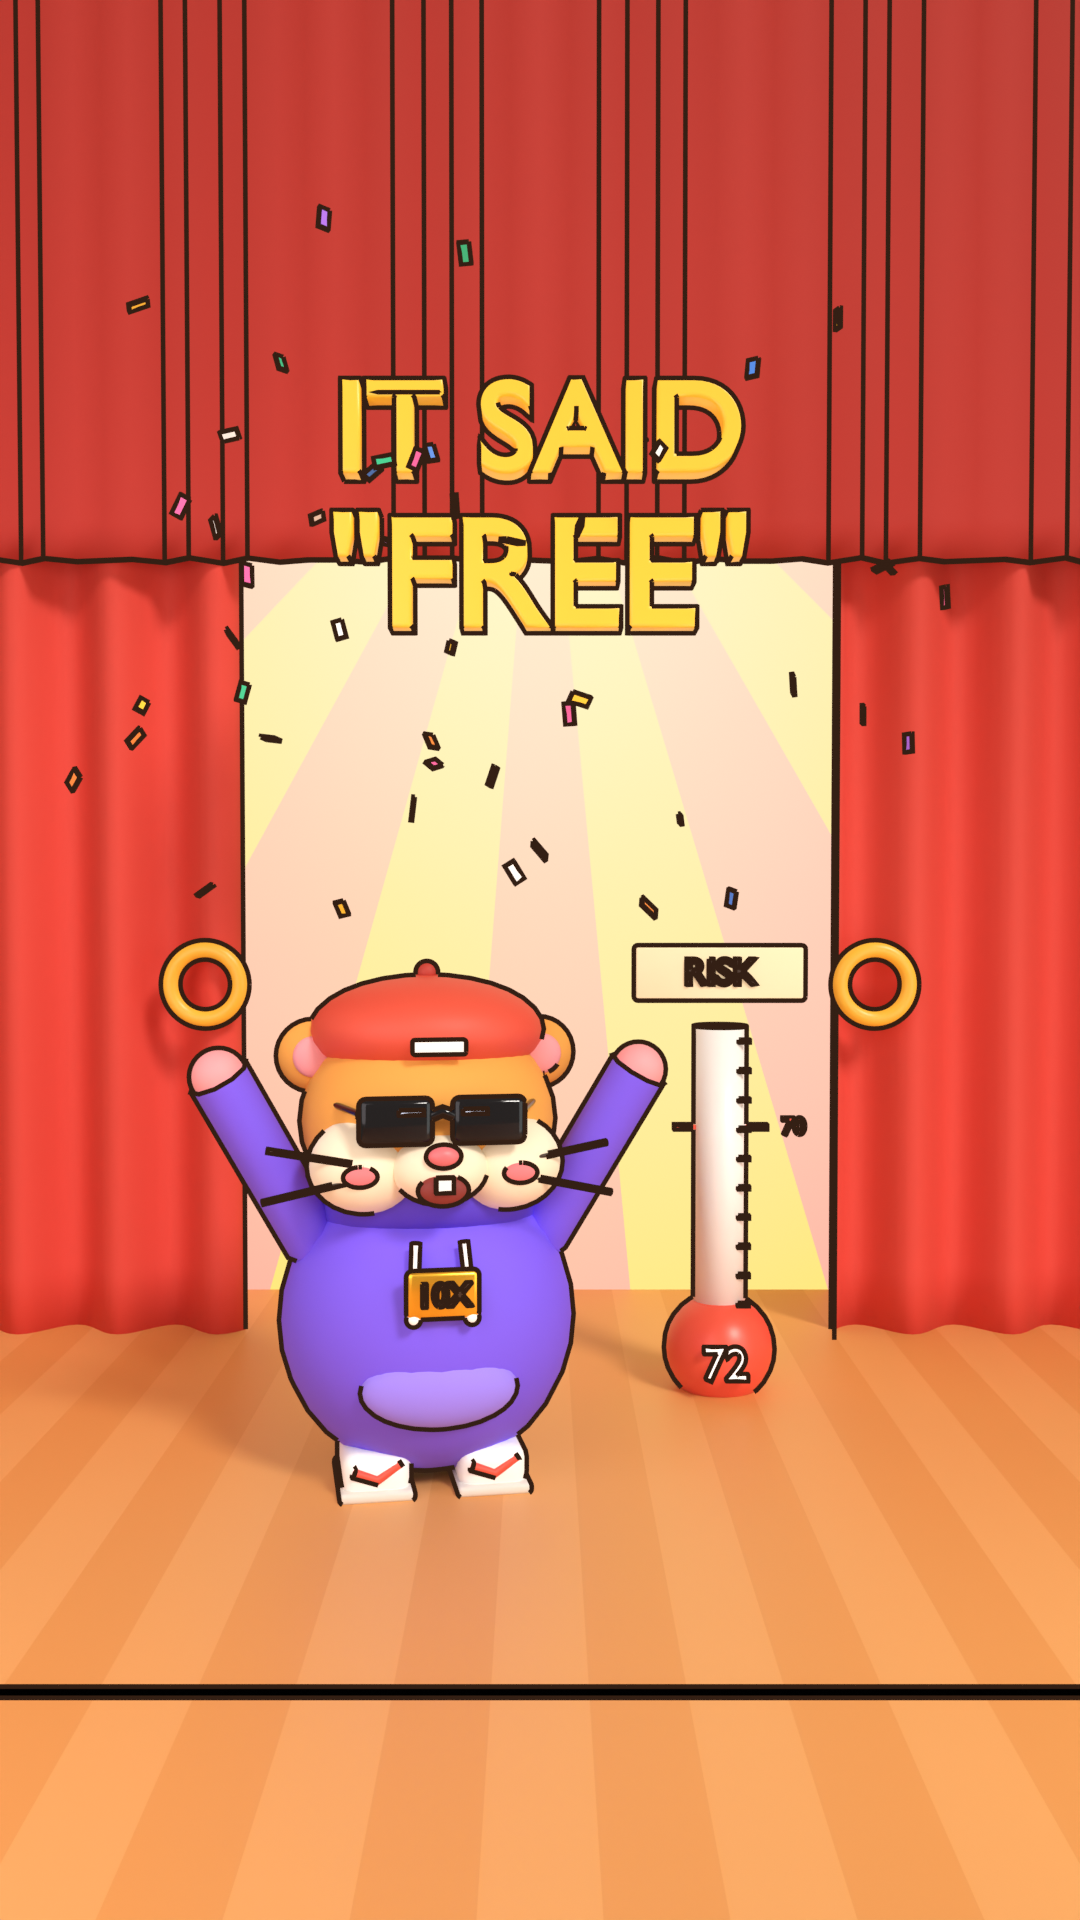
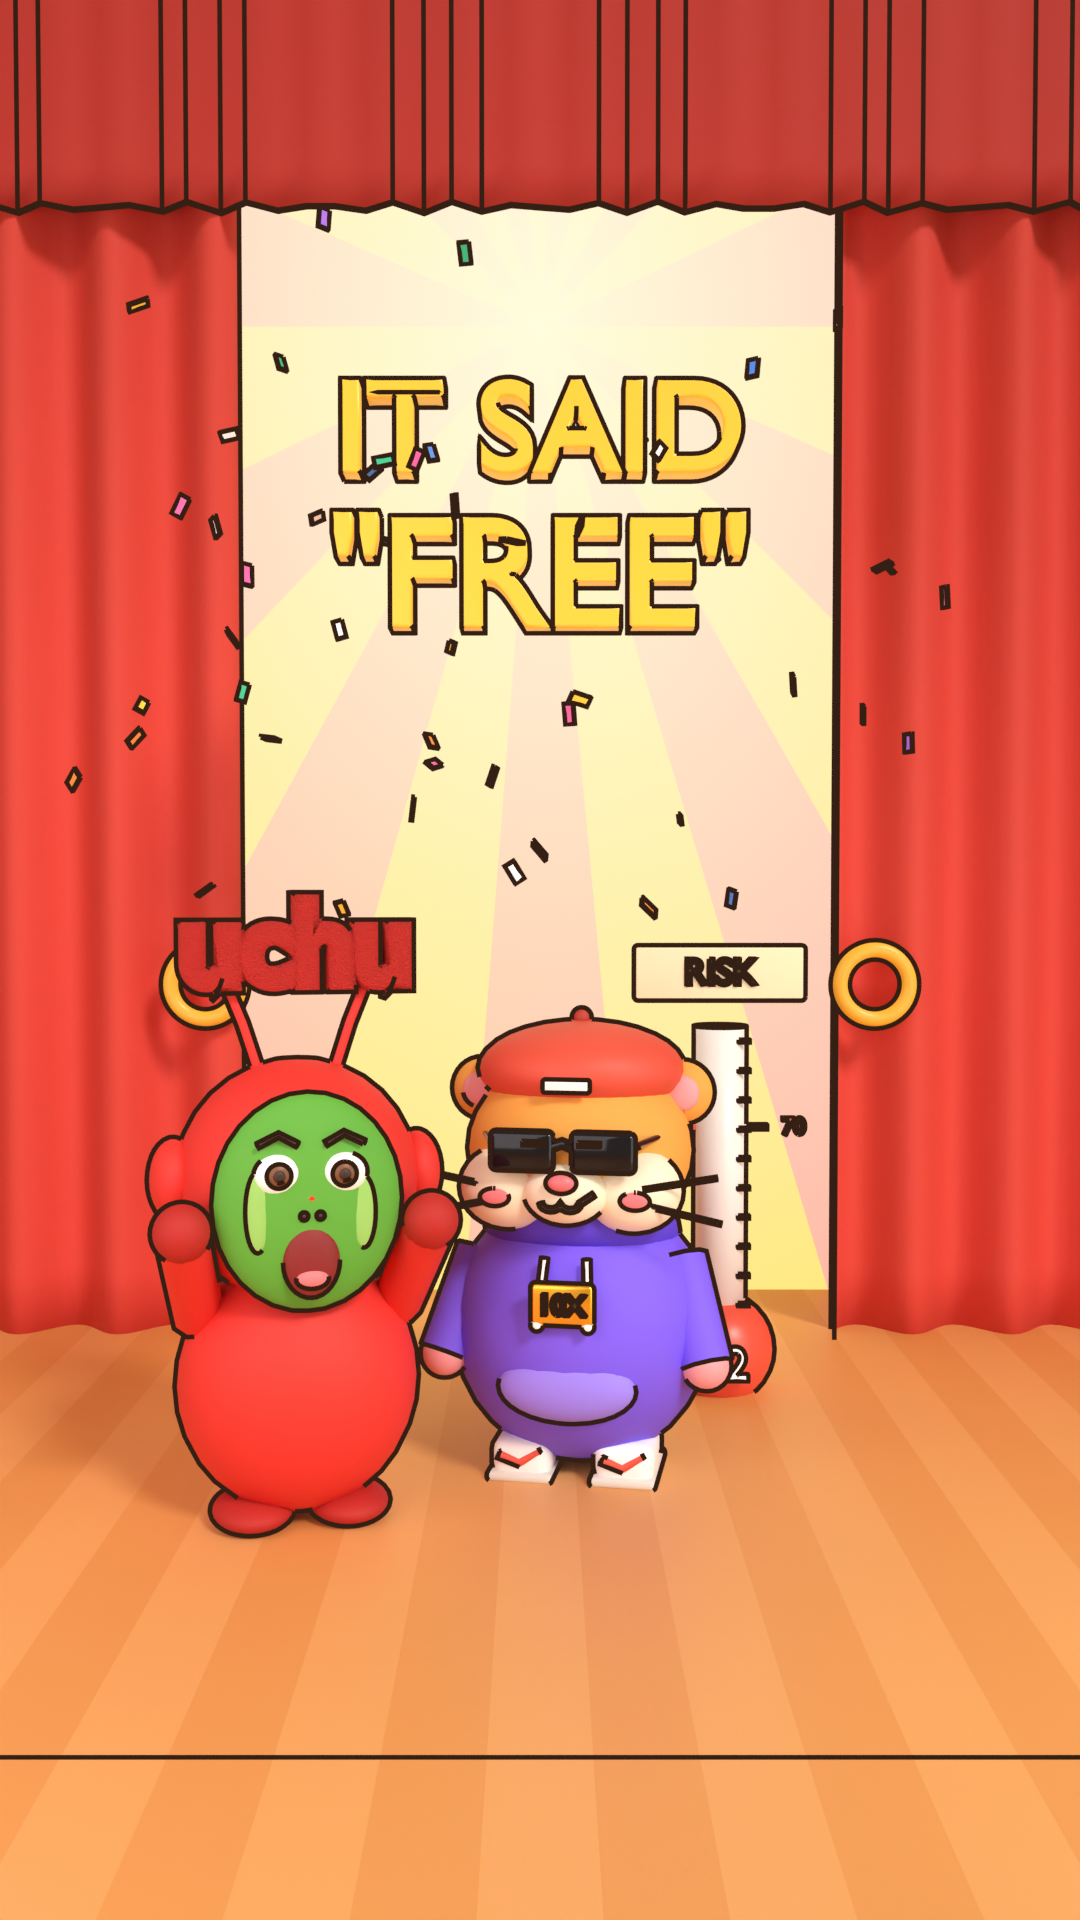
Reel critique round 2 (7.5/10)
Claude-Session: https://claude.ai/code/session_016ywse4vnrK6i452DYWowwZ

Changed region(s): [[0.0, 0.0938, 1.0, 0.3438], [0.0306, 0.4375, 0.7028, 0.8125], [0.0, 0.875, 1.0, 0.9062]]

diff --git a/docs/video/reels-critique.md b/docs/video/reels-critique.md
@@ -184,3 +184,122 @@ Why: the viewer currently can't see the card being held, and the 70 threshold is
 - ~햄 count after the remake: R02 "재봤햄" and R10 "돌렸햄". That's 2, within the 2–4 rule.
 - Highlight pairs after the remake: FREE/공짜 (R01, R04, R11, R12), 72 (R09 card), 70/70점 (R09), $0.40 (R11), SKILL.md (EN R12 only; the KO loop line uses 공짜 instead), 하네스/Harness (R08a), 온톨로지/Ontology (R07), 테스트 (R08b), 샌드박스 (R10).
 - Fix `SERIES.md` "this one: 45 s" to 30 s, and align the SHOTS comment (≤33) with the notes panel (≤36).
+
+---
+
+# Round 2: re-score of the remade Reel (13 shots, with Uchu)
+
+I re-rendered all 13 frames at 540×960 with Playwright and viewed each one. Every hard limit was checked in code against the live `REEL` data and the rendered subtitle rects. The runtime sums to **30.0 s**. The only console error is the blocked Google Fonts request, so the fallback font is in use and it is slightly wider than Gaegu.
+
+## Hard-limit audit
+
+| Shot | dur | EN (visible) | EN chars | KO | KO chars (incl. spaces) | Strip x (limit 30–480) | Strip y bottom (limit 765) | EN↔KO highlights |
+|---|---|---|---|---|---|---|---|---|
+| R01 | 1.0 | It said FREE. | 13 | \*공짜\*라며?! | 6 | 164–347 | 757 | FREE↔공짜 ✓ |
+| R02 | 1.0 | We measured. | 12 | 직접 재봤햄 | 6 | 167–343 | 757 | none ✓ |
+| R03 | 1.0 | Rewind. | 7 | 처음부터 까봄 | 7 | 172–338 | 757 | none ✓ |
+| R04 | 2.5 | Free. 5 min. 1 prompt. Sure. | 28 | \*공짜\*에 5분 컷이래 | 10 | 85–425 | 757 | Free↔공짜 ✓ |
+| R05 | 3.0 | Paste it in. The agents split it. | 33 | 붙여넣자 \*에이전트\* 팀 출동 | 14 | 59–451 | 757 | agents↔에이전트 ✓ |
+| R06 | 2.5 | Cut into cards. Fill the gaps. | 30 | 카드로 쪼개고 빠진 단계 채움 | 16 (at limit) | 74–437 | 757 | none ✓ |
+| R07 | 3.0 | Ontology: every card gets tags. | 31 | \*온톨로지\* = 카드마다 이름표 | 15 | 65–445 | 757 | Ontology↔온톨로지 ✓ |
+| R08a | 2.0 | Harness = seatbelts for agents. | 31 | \*하네스\* = AI 안전벨트 | 13 | 65–445 | 757 | Harness↔하네스 ✓ |
+| R08b | 2.0 | Rules steer. Tests catch. DING! | 31 | 규칙이 끌고 \*테스트\*가 잡음 | 14 | 65–445 | 757 | Tests↔테스트 ✓ |
+| R09 | 3.0 | Over 70? It waits for a human. | 30 | \*70점\* 넘으면 사람 도장 필수 | 16 (at limit) | 76–434 | 757 | 70↔70점 ✓ |
+| R10 | 3.0 | Safe cards run sandboxed. Timed. | 32 | 안전한 건 \*샌드박스\*서 돌렸햄 | 15 | 60–450 | 757 | sandboxed↔샌드박스 ✓ |
+| R11 | 3.0 | Claimed: free. Measured: $0.40. | 31 | \*공짜\*라며? 실측 \*$0.40\* | 14 | 63–447 | 757 | free↔공짜, $0.40↔$0.40 ✓ |
+| R12 | 3.0 | Ship SKILL.md. Next free post? | 30 | 다음 \*공짜\* 글, 재볼까? | 13 | 71–439 | 757 | **SKILL.md ↔ (missing) ✗**, free↔공짜 ✓ |
+
+- **Korean characters:** 13/13 lines are 16 or fewer. Two sit exactly at 16.
+- **Strips:** 13/13 are inside x 30–480 and above y 765. The subtitle is now centered at x 255 at 22/20 px, so it clears the icon column.
+- **Highlights:** 12/13 match. R12 highlights *SKILL.md* in English but has no Korean counterpart.
+- **~햄:** used 2× (R02 재봤햄, R10 돌렸햄), within the 2–4 rule. Register is consistent 반말/음슴체 throughout.
+- **Speech rate:** no line goes over 2.5 words/s. The busiest are R04 (6 words in 2.5 s, split into four clipped sentences on purpose) and R08b (5 words in 2 s).
+
+## Scorecard (old → new)
+
+| # | Criterion | Old | New | One-line justification |
+|---|---|---|---|---|
+| 1 | Hook (0–3 s) | 5 | **8** | R01 now shows the cost payoff (~~FREE~~ → $0.40), with the hamster, Uchu's shock and the board, under a one-word headline. It loses points because R02's agents stand still (no lean, no bounce, no labels), so second 2 doesn't read as "measuring". |
+| 2 | Pacing and visual change | 7 | **7** | 13 cuts with a shot change every 1–3 s. But 9 of 13 frames use the same template: board in the top half, cast in a row on the floor. That flattens things in 2D, and in Blender it only works if the camera moves vary. |
+| 3 | Clarity (ontology + harness) | 4 | **7** | Tags = ontology lands. Harness = seatbelt is said out loud, and ②③④ tie the gate and sandbox to it. But R08a never *looks* like a seatbelt (it reads as a rope or leash), and there is no ①, so the numbering starts mid-count. |
+| 4 | Kanban centrality | 3 | **8** | The board is in 12/13 frames. Cards visibly go up into columns (R05) and drop into the sandbox (R10), and the Verified column fills up by R12. Across shots it still mostly acts as a backdrop rather than the stage. |
+| 5 | Hamster appeal and "hip" | 6 | **7** | The R01 deadpan, glasses pushed up in R11 and the mic drop in R12 all land. He is still tiny in R04 (about 0.55 scale) and floating in mid-air in R08a, and in R09 the rubber stamp covers his sunglasses and face. |
+| 6 | English VO | 5 | **7** | Every line is speakable, and "Sure." and "DING!" add deadpan. It still leans on slide grammar ("Harness = …", "Ontology: …", "Claimed: … Measured: …"). |
+| 7 | Korean subtitles | 6 | **8** | All within 16 characters, native tone, ~햄 used sparingly, and "5분 컷" and "사람 도장 필수" read like real Shorts captions. It loses a point for the R12 highlight mismatch and two lines sitting right at the limit. |
+| 8 | Composition | 6 | **7** | Every strip is safe and bright. But the R05 PASTE! burst covers the "Decomposed" header and the "check" card, the R07 ghost board muddies the tags and leaves stray motion lines at (120–150, 315–340), "72" appears three times in R09, and the "at a time" line on the R08b scroll is cut off by the roller. |
+| 9 | Fun and uniqueness | 6 | **7** | Uchu is a real foil, and it is a good running gag that he never learns (shocked in R01, shocked again in R11, grinning at the next FREE!! in R12). But he is missing from R04, the one beat that is literally "viewer falls for the post", and his shock pose is identical in R01 and R11. |
+| 10 | Loop and ending | 7 | **8** | R12 (Uchu with FREE!!, the thud, "다음 공짜 글, 재볼까?") flows into R01 ("공짜라며?!", Uchu gasping). But Uchu jumps from the right side of the frame (x 412) to the left (x 140) across the cut, which breaks the seamless loop. |
+
+**Overall (weighted: hook ×2, clarity ×1.5, Korean ×1.5, rest ×1):**
+(8×2 + 7 + 7×1.5 + 8 + 7 + 7 + 8×1.5 + 7 + 7 + 8) / 12 = 89.5 / 12 = **7.5 / 10 — Grade B−** (up from 5.4, C)
+
+The argument is now right. What's left is execution detail: one passive shot, one metaphor that isn't drawn, and three crowded frames.
+
+Uchu is visually distinctive (red hood with antennae, a green face, fuzzy "uchu" lettering). Before the Blender build, confirm it is original IP and doesn't closely resemble an existing mascot.
+
+## Per-shot table (old → new)
+
+| id | old | new | Main problem (one line) | Concrete fix |
+|---|---|---|---|---|
+| R01 | 5 | **8** | The hamster's paw doesn't visibly grip the sign stick, and Uchu is on the left while R12 ends with him on the right. | Mirror the cast: `Th.uchu(400, FY, 1, {m:'shock', bang:true, flip:true, …})` and move the hamster to x 150 with the sign at x 290, so Uchu stays on the right across the loop cut. |
+| R02 | 4 | **6** | The agents stand still. There's no motion, no labels, and the stopwatch floats alone. | See REMAKE #3. |
+| R03 | 5 | **7** | Clean. The dizzy Hype Box on the right is leftover cast that the story no longer needs. | Replace `hype(385, …)` with `Th.uchu(390, FY, .8, {m:'squint'})` being pulled backwards, and add `Th.motion(440, 600, 3, 40, 1)`. That keeps Uchu on the right. |
+| R04 | 7 | **7** | Uchu, the believer, is absent from the believer beat. The hamster is too small to sell "Sure." | See REMAKE #2. |
+| R05 | 7 | **7** | The PASTE! burst covers the Decomposed header and the "check" card. `POST /api/ingest` is dev jargon to a Korean viewer. | Move the burst to `Th.burst(150, 300, 36, 'PASTE!', {…})` over the empty lower half of column 1, and delete the `/api/ingest` label (it's in the description). |
+| R06 | 6 | **8** | Works. The confetti is random noise under the board. | Delete `Th.confetti(...)`. |
+| R07 | 7 | **7** | The ghost board fights the tags, stray motion lines float at (120–150, 315–340), and the Router is tiny. | Drop the ghost board's opacity to .25 or blur it, delete the stray `Th.motion`, and scale Router to 80. |
+| R08a | 3 (old R08) | **6** | The "seatbelt" is drawn as a rope. The hamster floats in mid-air at y 470. CLICK! is detached from any buckle. There's no HARNESS ①. | See REMAKE #1. |
+| R08b | — | **7** | Clear, but the "at a time" line is cut off by the scroll roller, the rule arrow is tiny, and DING! sits on top of the fence rails. | `scrollProp(90, 412, 140, 96, …)`, arrow `Th.arrow(160, 408, 175, 382, {c:'#b07a10', w:6})`, DING at `T(400, 520, …)`. |
+| R09 | 5 | **6** | The rubber stamp covers the hamster's face. "72" appears three times (board, badge, bulb). There are 9 text items. | See REMAKE #4. |
+| R10 | 4 | **8** | Clean and legible, and the rolling counters work. The runner's card overlaps the glass lid. | Lift the carried card by using `carry` at scale 64, or draw the lid before the agent. |
+| R11 | 8 | **8** | Strong reveal. Uchu's shock is a copy of R01. | Give Uchu `m:'squint'` plus `sweat:true` (a "wait… really?" beat) so his arc is shocked → doubtful → back to believing in R12. |
+| R12 | 5 | **7** | The KO line lacks the SKILL.md highlight, the paw print reads as a mark *on the board*, not on the glass, and Uchu's side conflicts with R01. | See REMAKE #5. |
+
+## REMAKE LIST (Round 2)
+
+Durations are unchanged: R01 1 · R02 1 · R03 1 · R04 2.5 · R05 3 · R06 2.5 · R07 3 · R08a 2 · R08b 2 · R09 3 · R10 3 · R11 3 · R12 3 = **30.0 s**.
+
+### 1. R08a: draw the seatbelt, ground the hamster (clarity ×1.5)
+- en: `*Harness* = seatbelts for agents.` (keep) · ko: `*하네스* = AI 안전벨트` (keep, 13) · dur **2.0**
+- draw:
+  - Keep `kb(60, 210, 420, 200, …)`.
+  - Delete both rope paths and the floating `Th.doc(270, 470, …)`.
+  - For each agent at x ∈ {140, 270, 400} (s 70, body y 611–657), add a diagonal seatbelt:
+    `G('<path d="M'+(x-30)+',613 L'+(x+30)+',655" stroke="#6b3f22" stroke-width="9" stroke-linecap="round"/><rect x="'+(x-8)+'" y="628" width="16" height="12" rx="3" fill="#ffd23f" stroke="'+INK+'" stroke-width="2.5"/>')`
+  - Hamster perched *on* the board's top edge: `Th.doc(440, 212, .5, { m: 'grin', la: [-40, -70] })` + `Th.arrow(420, 225, 290, 600, { c: '#6b3f22' })` (he "pulls" the buckle).
+  - `Th.burst(270, 572, 34, 'CLICK!', { fill: '#ffd23f', z: 16, r: -8 })` on the middle buckle.
+  - `pill(400, 432, 'HARNESS ①', '#d9f4ee')`, so ②③④ have a start.
+
+### 2. R04: put Uchu in the believer beat
+- en: `*Free*. 5 min. 1 prompt. Sure.` (keep) · ko: `*공짜*에 5분 컷이래` (keep, 10) · dur **2.5**
+- draw:
+  - Phone moves up 30 px: `Th.phone(96, 206, 230, 340, inner)`.
+  - Delete `hype(...)` and the boop bubble. The post itself is the Hype.
+  - `Th.uchu(400, FY, .85, { m: 'grin', la: [-40, -110], ra: [40, -110] })`, both mittens up and cheering.
+  - `Th.bubble(400, 440, 110, ['공짜!!'], [400, 520], { z: 26 })`
+  - Hamster larger and deadpan: `Th.doc(215, FY, .75, { m: 'flat' })`, then `T(282, 578, 'sure.', 26, { f: '#6b4a36', r: -8 })`.
+
+### 3. R02: make the squad *run*
+- en: `We measured.` · ko: `직접 재봤햄` (keep) · dur **1.0**
+- draw:
+  - Keep the board.
+  - For agent i at x ∈ {110, 215, 320, 425}: `Th.agent(r, x, FY - (i % 2) * 16, 62, { noLabel: true, mood: 'happy', rot: -12, … })` with `Th.motion(x - 40, 598 - (i % 2) * 16, 3, 55, -1)`. The lean and bounce read as sprinting.
+  - Move the stopwatch to the middle of the gap: `scaleAt(Th.stopwatch(270, 470), 270, 470, 1.8)`, plus `pill(270, 530, '0:00…', '#fffdf5')`.
+  - `Th.arrow(150, 580, 430, 580, { c: '#2fbf8a' })` across the floor as a direction cue.
+
+### 4. R09: unmask the hamster and cut the 72s
+- en/ko keep (`Over *70*? It waits for a human.` / `*70점* 넘으면 사람 도장 필수`, 16) · dur **3.0**
+- draw:
+  - Hamster raises the stamp *overhead*: `Th.doc(420, FY, .9, { m: 'flat', la: [-20, -190] })`, then `rubber(...Th.hand(420, FY, .9, [-20, -190]), 'OK?')`. The stamp sits at about y 440–510, above the head.
+  - Pinned card with no badge, shortened so it clears the stamp: `Th.card(212, 488, 150, 46, 'API key', { kind: 'risk', z: 20, small: true })`. 72 now lives on the meter bulb and the board card only.
+  - `stampMark(250, 420, 'HUMAN ONLY', -10)`
+  - Keep the meter, gate, red box and `HARNESS ③`.
+
+### 5. R12: finish the loop
+- en: `Ship SKILL.md. Next *free* post?`. Remove the asterisks from SKILL.md. SKILL.md stays on screen (package and Verified card), but only *free* is highlighted.
+- ko: `다음 *공짜* 글, 재볼까?` (keep, 13). Highlights now match (free↔공짜).
+- Why not add SKILL.md to the Korean line: every variant that carries both tokens runs over 16 characters. For example, `*SKILL.md* 완성. 다음 *공짜*?` is 19. The 공짜 token matters more because it drives the loop into "공짜라며?!".
+- dur **3.0**
+- draw:
+  - Put the paw on the glass, not the board: move `paw(118, 330, 1.8, -12)` to `paw(150, 470, 2.2, -12)` so it sits over the stage and hamster zone, below the board and in front of everything. Add a white smudge: `<ellipse cx="150" cy="485" rx="46" ry="30" fill="#fff" opacity=".35"/>`.
+  - Uchu stays at x 412 (the right side). With REMAKE R01's mirror fix, he is on the right in both frames, so the cut is seamless.
